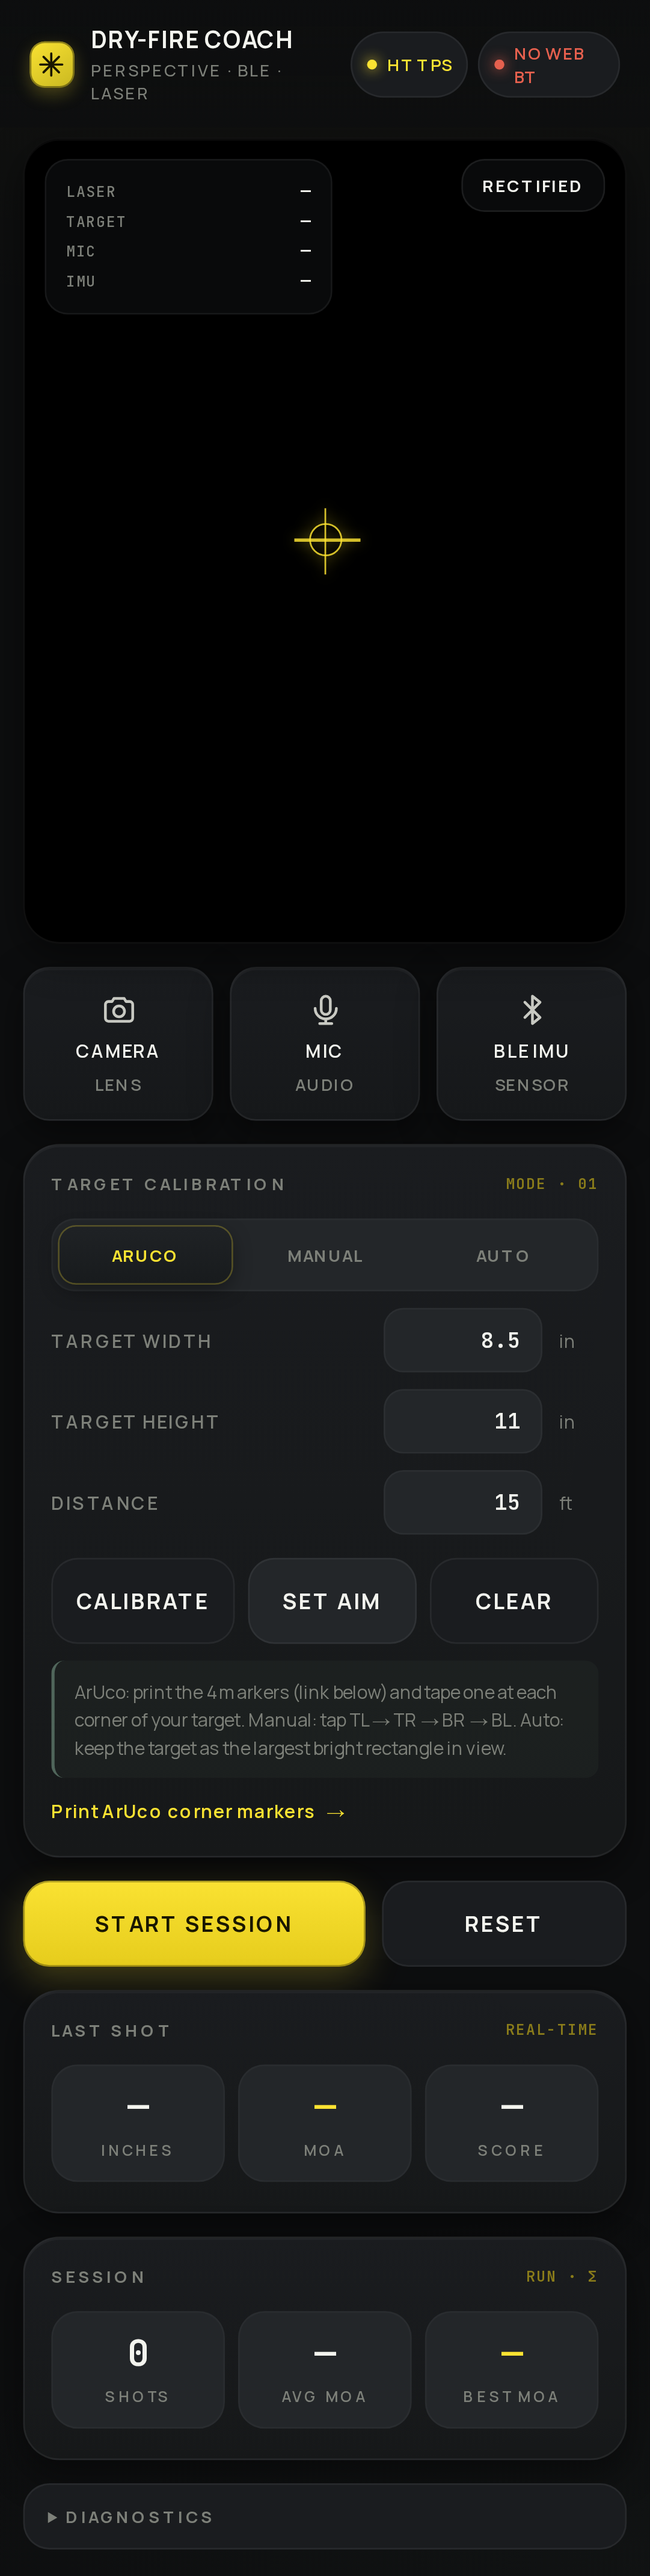
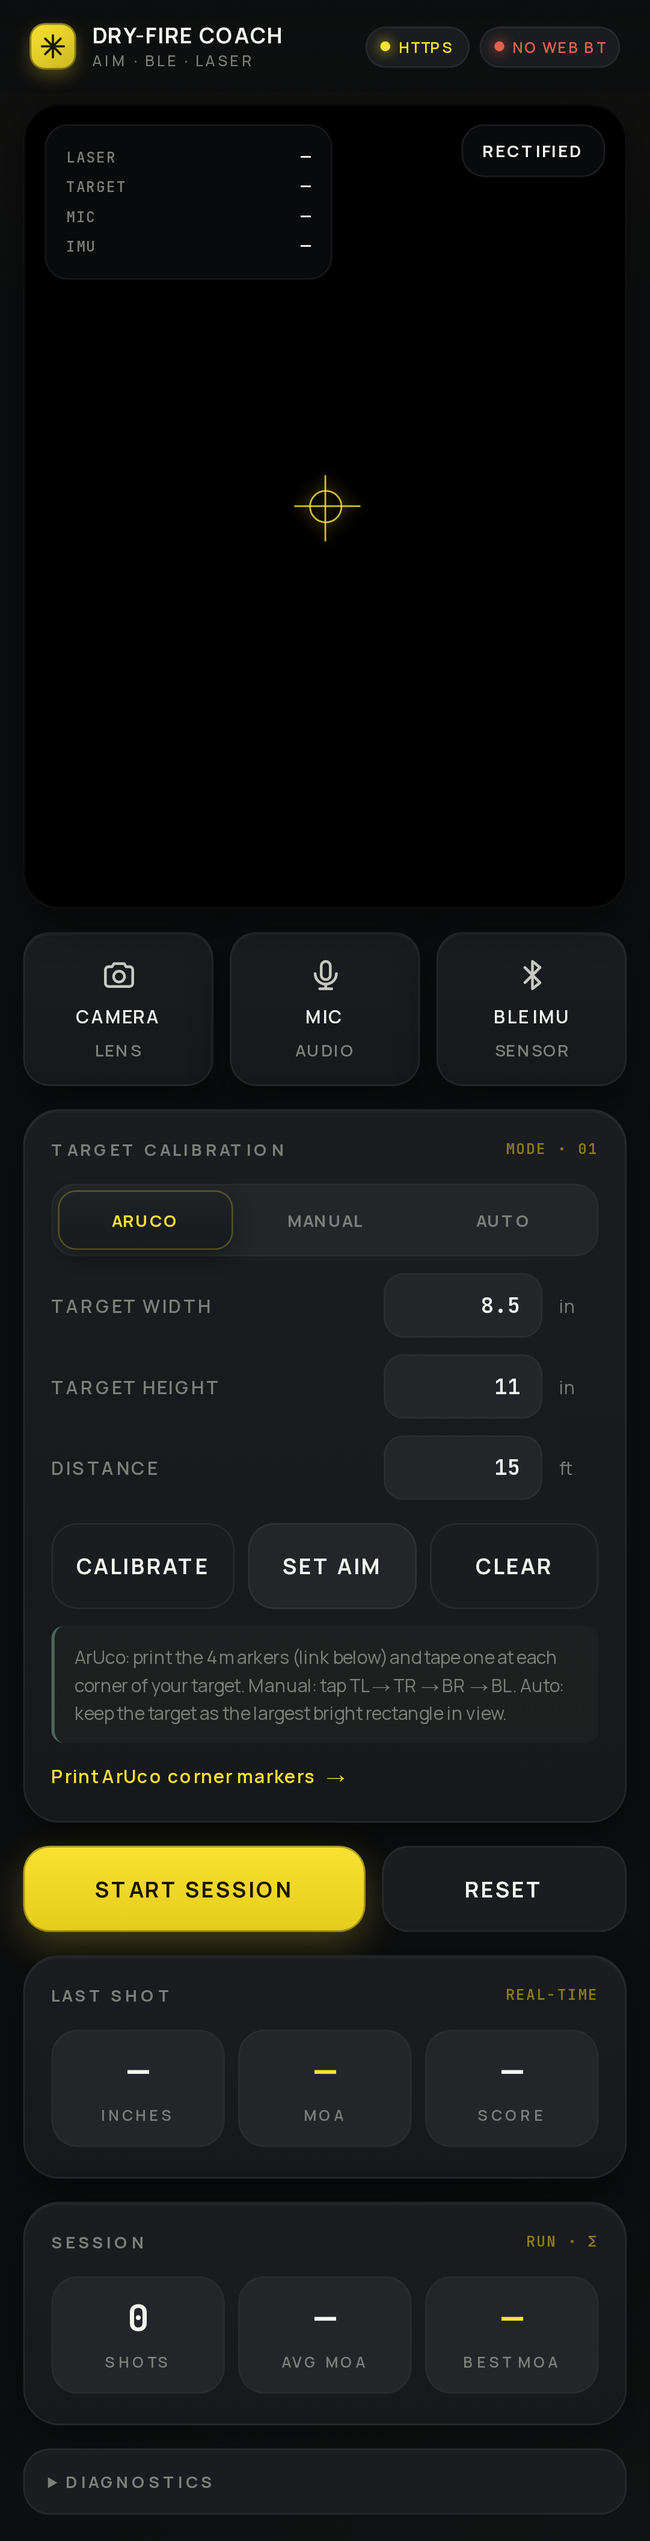
feat: one-page printable target sheet with ArUco corners + bullseye + grid

diff --git a/index.html b/index.html
@@ -372,7 +372,7 @@
       <button class="action secondary" id="btn-clear">Clear</button>
     </div>
     <div class="hint" id="calib-hint">ArUco: print the 4 markers (link below) and tape one at each corner of your target. Manual: tap TL → TR → BR → BL. Auto: keep the target as the largest bright rectangle in view.</div>
-    <a class="link" id="btn-print" href="#">Print ArUco corner markers</a>
+    <a class="link" id="btn-print" href="#">Print one-page target sheet</a>
   </div>
 
   <div class="row2">
@@ -1031,37 +1031,162 @@ $('#btn-reset').addEventListener('click', ()=>{
   log('Session reset');
 });
 
-// ---- ArUco marker print page ----
+// ---- Printable target sheet (one-page, US Letter) ----
 function openMarkerPrintPage(){
-  if (!window.AR || !window.AR.Dictionary){ log('ArUco lib not loaded — cannot generate markers','err'); return; }
+  if (!window.AR || !window.AR.Dictionary){ log('ArUco lib not loaded — cannot generate target','err'); return; }
   const dict = new AR.Dictionary('ARUCO_MIP_36h12');
-  const ids = [0,1,2,3];
-  const labels = ['TL (ID 0)','TR (ID 1)','BR (ID 2)','BL (ID 3)'];
-  let svgs = '';
-  ids.forEach((id,i)=>{
-    const svg = dict.generateSVG(id);
-    svgs += `<div class="m"><div class="lbl">${labels[i]}</div>${svg}</div>`;
-  });
-  const html = `<!DOCTYPE html><html><head><meta charset="utf-8"><title>ArUco markers</title>
+
+  // --- Page layout (US Letter, inches) ---
+  // 8.5 × 11 in page · 0.4 in print margin
+  // Calibration frame: rectangle whose INSIDE corners are exactly defined by
+  // the inner corner of each ArUco marker → matches what the homography uses.
+  const PAGE_W = 8.5, PAGE_H = 11.0;
+  const MARGIN = 0.4;          // safe print margin
+  const MARKER = 1.0;          // 1.0" square ArUco — detectable from across a room
+  // Frame defined by the OUTER corners of the 4 markers (TL of marker 0 → TR of marker 1, etc.)
+  const FRAME_X = MARGIN, FRAME_Y = MARGIN;
+  const FRAME_W = PAGE_W - 2*MARGIN; // 7.7"
+  const FRAME_H = PAGE_H - 2*MARGIN; // 10.2"
+  // Bullseye is centered inside the frame
+  const CX = FRAME_X + FRAME_W/2;
+  const CY = FRAME_Y + FRAME_H/2;
+  // 10 rings; outer ring radius = (FRAME_W - 2*MARKER - 0.6) / 2  ≈ 2.55"
+  const RING_OUTER = Math.min(FRAME_W, FRAME_H)/2 - MARKER - 0.3;
+  const RINGS = 10;
+
+  // --- Build ArUco markers at the four frame corners ---
+  // IDs 0=TL, 1=TR, 2=BR, 3=BL  (matches detectAruco() ordering)
+  function arucoSVG(id, x, y, size){
+    // generateSVG returns a string '<svg ...>…</svg>' — wrap inside a <g> with translate+scale.
+    const inner = dict.generateSVG(id);
+    // Pull out the inner content (between the outer <svg ...> tags)
+    const m = inner.match(/<svg[^>]*viewBox="([^"]+)"[^>]*>([\s\S]*?)<\/svg>/);
+    if (!m) return '';
+    const vb = m[1].split(/\s+/).map(Number); // [minX, minY, vbW, vbH]
+    const body = m[2];
+    const s = size / vb[2];
+    // Place at (x,y) in inches, scale the marker's viewBox to that size
+    return `<g transform="translate(${x} ${y}) scale(${s})">${body}</g>`;
+  }
+
+  const markers =
+    arucoSVG(0, FRAME_X,                       FRAME_Y,                       MARKER) +
+    arucoSVG(1, FRAME_X + FRAME_W - MARKER,    FRAME_Y,                       MARKER) +
+    arucoSVG(2, FRAME_X + FRAME_W - MARKER,    FRAME_Y + FRAME_H - MARKER,    MARKER) +
+    arucoSVG(3, FRAME_X,                       FRAME_Y + FRAME_H - MARKER,    MARKER);
+
+  // --- Bullseye rings ---
+  let rings = '';
+  for (let i=RINGS; i>=1; i--){
+    const r = RING_OUTER * (i/RINGS);
+    // alternating dark/light for visibility (X-ring through 10 are dark; 9-7 light; 6-1 dark)
+    const fill = (i>=7 ? '#000' : (i>=4 ? '#fff' : '#000'));
+    const stroke = '#000';
+    rings += `<circle cx="${CX}" cy="${CY}" r="${r}" fill="${fill}" stroke="${stroke}" stroke-width="0.01"/>`;
+  }
+  // Center dot (aim point)
+  rings += `<circle cx="${CX}" cy="${CY}" r="${RING_OUTER*0.04}" fill="#fff"/>`;
+  rings += `<circle cx="${CX}" cy="${CY}" r="${RING_OUTER*0.015}" fill="#000"/>`;
+
+  // Ring numbers (1–10) along horizontal axis on the LEFT half
+  let numbers = '';
+  for (let i=1; i<=RINGS; i++){
+    const r = RING_OUTER * (i/RINGS);
+    const tx = CX - r + (RING_OUTER/RINGS)/2; // sit on left side of each ring
+    const fontColor = (i>=7 || i<=3) ? '#fff' : '#000';
+    const fontSize = 0.14;
+    numbers += `<text x="${tx}" y="${CY + fontSize*0.35}" font-size="${fontSize}" font-family="Arial, sans-serif" font-weight="700" text-anchor="middle" fill="${fontColor}">${i}</text>`;
+  }
+
+  // --- Light 0.5" reference grid (very faint, won't visually compete) ---
+  let grid = '';
+  for (let gx = FRAME_X; gx <= FRAME_X + FRAME_W + 0.001; gx += 0.5){
+    grid += `<line x1="${gx}" y1="${FRAME_Y}" x2="${gx}" y2="${FRAME_Y+FRAME_H}" stroke="#000" stroke-opacity="0.06" stroke-width="0.005"/>`;
+  }
+  for (let gy = FRAME_Y; gy <= FRAME_Y + FRAME_H + 0.001; gy += 0.5){
+    grid += `<line x1="${FRAME_X}" y1="${gy}" x2="${FRAME_X+FRAME_W}" y2="${gy}" stroke="#000" stroke-opacity="0.06" stroke-width="0.005"/>`;
+  }
+  // Center crosshairs through the bullseye for visual alignment
+  grid += `<line x1="${CX-0.6}" y1="${CY}" x2="${CX-RING_OUTER*1.05}" y2="${CY}" stroke="#000" stroke-opacity="0.5" stroke-width="0.012"/>`;
+  grid += `<line x1="${CX+0.6}" y1="${CY}" x2="${CX+RING_OUTER*1.05}" y2="${CY}" stroke="#000" stroke-opacity="0.5" stroke-width="0.012"/>`;
+  grid += `<line x1="${CX}" y1="${CY-0.6}" x2="${CX}" y2="${CY-RING_OUTER*1.05}" stroke="#000" stroke-opacity="0.5" stroke-width="0.012"/>`;
+  grid += `<line x1="${CX}" y1="${CY+0.6}" x2="${CX}" y2="${CY+RING_OUTER*1.05}" stroke="#000" stroke-opacity="0.5" stroke-width="0.012"/>`;
+
+  // --- Frame outline (helps confirm print scale) ---
+  const frame = `<rect x="${FRAME_X}" y="${FRAME_Y}" width="${FRAME_W}" height="${FRAME_H}" fill="none" stroke="#000" stroke-width="0.008" stroke-dasharray="0.05 0.05"/>`;
+
+  // --- Footer labels (tells the user real dimensions + how to feed them to the app) ---
+  const labelY = FRAME_Y + FRAME_H - 0.08;
+  const footer = `
+    <text x="${FRAME_X + 1.1}" y="${FRAME_Y + 0.18}" font-size="0.12" font-family="Arial, sans-serif" font-weight="700" fill="#000">DRY-FIRE COACH · CALIBRATED TARGET</text>
+    <text x="${FRAME_X + 1.1}" y="${FRAME_Y + 0.34}" font-size="0.09" font-family="Arial, sans-serif" fill="#444">Print at 100% scale (no “fit to page”). Frame size: ${FRAME_W.toFixed(2)}" × ${FRAME_H.toFixed(2)}".</text>
+    <text x="${CX}" y="${labelY}" font-size="0.10" font-family="Arial, sans-serif" font-weight="700" text-anchor="middle" fill="#000">App settings → Target width: ${FRAME_W.toFixed(2)} in · Target height: ${FRAME_H.toFixed(2)} in</text>
+  `;
+
+  // --- 1" scale bar (lower-left, for double-checking print scale) ---
+  const sbX = FRAME_X + 0.2, sbY = FRAME_Y + FRAME_H - 0.35;
+  const scaleBar = `
+    <rect x="${sbX}" y="${sbY}" width="1" height="0.06" fill="#000"/>
+    <text x="${sbX + 0.5}" y="${sbY - 0.04}" font-size="0.09" font-family="Arial, sans-serif" font-weight="600" text-anchor="middle" fill="#000">1” SCALE CHECK</text>
+  `;
+
+  const svg = `
+    <svg xmlns="http://www.w3.org/2000/svg"
+         width="${PAGE_W}in" height="${PAGE_H}in"
+         viewBox="0 0 ${PAGE_W} ${PAGE_H}"
+         shape-rendering="crispEdges">
+      <rect x="0" y="0" width="${PAGE_W}" height="${PAGE_H}" fill="#fff"/>
+      ${grid}
+      ${frame}
+      ${rings}
+      ${numbers}
+      ${markers}
+      ${footer}
+      ${scaleBar}
+    </svg>
+  `;
+
+  const html = `<!DOCTYPE html><html><head><meta charset="utf-8"><title>Dry-Fire Target · 8.5×11</title>
   <style>
-    body{font-family:system-ui;background:#fff;color:#000;margin:24px;}
-    h1{font-size:18px;}
-    .grid{display:grid;grid-template-columns:1fr 1fr;gap:24px;margin-top:16px;}
-    .m{border:1px dashed #999;padding:12px;text-align:center;}
-    .m svg{width:2in;height:2in;display:block;margin:0 auto;}
-    .lbl{font-weight:600;margin-bottom:8px;}
-    @media print { body{margin:0.5in;} .m{break-inside:avoid;} }
+    html,body{margin:0;padding:0;background:#e9e9e9;}
+    .sheet{
+      width:8.5in;height:11in;background:#fff;margin:18px auto;
+      box-shadow:0 4px 18px rgba(0,0,0,0.18);
+      page-break-after:always;
+    }
+    .sheet svg{display:block;width:100%;height:100%;}
+    .toolbar{
+      position:fixed;top:10px;right:10px;display:flex;gap:8px;z-index:10;
+      font-family:-apple-system,BlinkMacSystemFont,"Segoe UI",Roboto,sans-serif;
+    }
+    .toolbar button{
+      background:#FAE232;color:#1a1700;border:none;
+      padding:10px 16px;border-radius:10px;font-weight:700;font-size:13px;cursor:pointer;
+      box-shadow:0 4px 12px rgba(0,0,0,0.2);
+    }
+    .toolbar button.alt{background:#1a1c1f;color:#fff;}
+    @page { size: 8.5in 11in; margin: 0; }
+    @media print {
+      html,body{background:#fff;}
+      .toolbar{display:none;}
+      .sheet{margin:0;box-shadow:none;}
+    }
   </style></head>
   <body>
-    <h1>Dry-Fire Coach — ArUco corner markers</h1>
-    <p>Print at actual size (no scaling). Cut out and tape one to each corner of your target in the labeled position. The marker outline matters — leave the white border intact.</p>
-    <div class="grid">${svgs}</div>
-    <p style="margin-top:24px;font-size:11px;color:#666;">Dictionary: ARUCO_MIP_36h12 · IDs 0–3</p>
-    <script>window.onload = ()=> setTimeout(()=>window.print(), 400);<\/script>
+    <div class="toolbar">
+      <button class="alt" onclick="window.close()">Close</button>
+      <button onclick="window.print()">Print target</button>
+    </div>
+    <div class="sheet">${svg}</div>
   </body></html>`;
+
   const w = window.open('', '_blank');
-  if (!w){ log('Popup blocked — allow popups to print markers','warn'); return; }
+  if (!w){ log('Popup blocked — allow popups to print the target','warn'); return; }
   w.document.open(); w.document.write(html); w.document.close();
+  log(`Target sheet generated · ${FRAME_W.toFixed(2)}" × ${FRAME_H.toFixed(2)}" frame`, 'ok');
+  // Pre-fill the app inputs to match the printed sheet
+  $('#in-width').value = FRAME_W.toFixed(2);
+  $('#in-height').value = FRAME_H.toFixed(2);
 }
 
 // ---- Init ----
